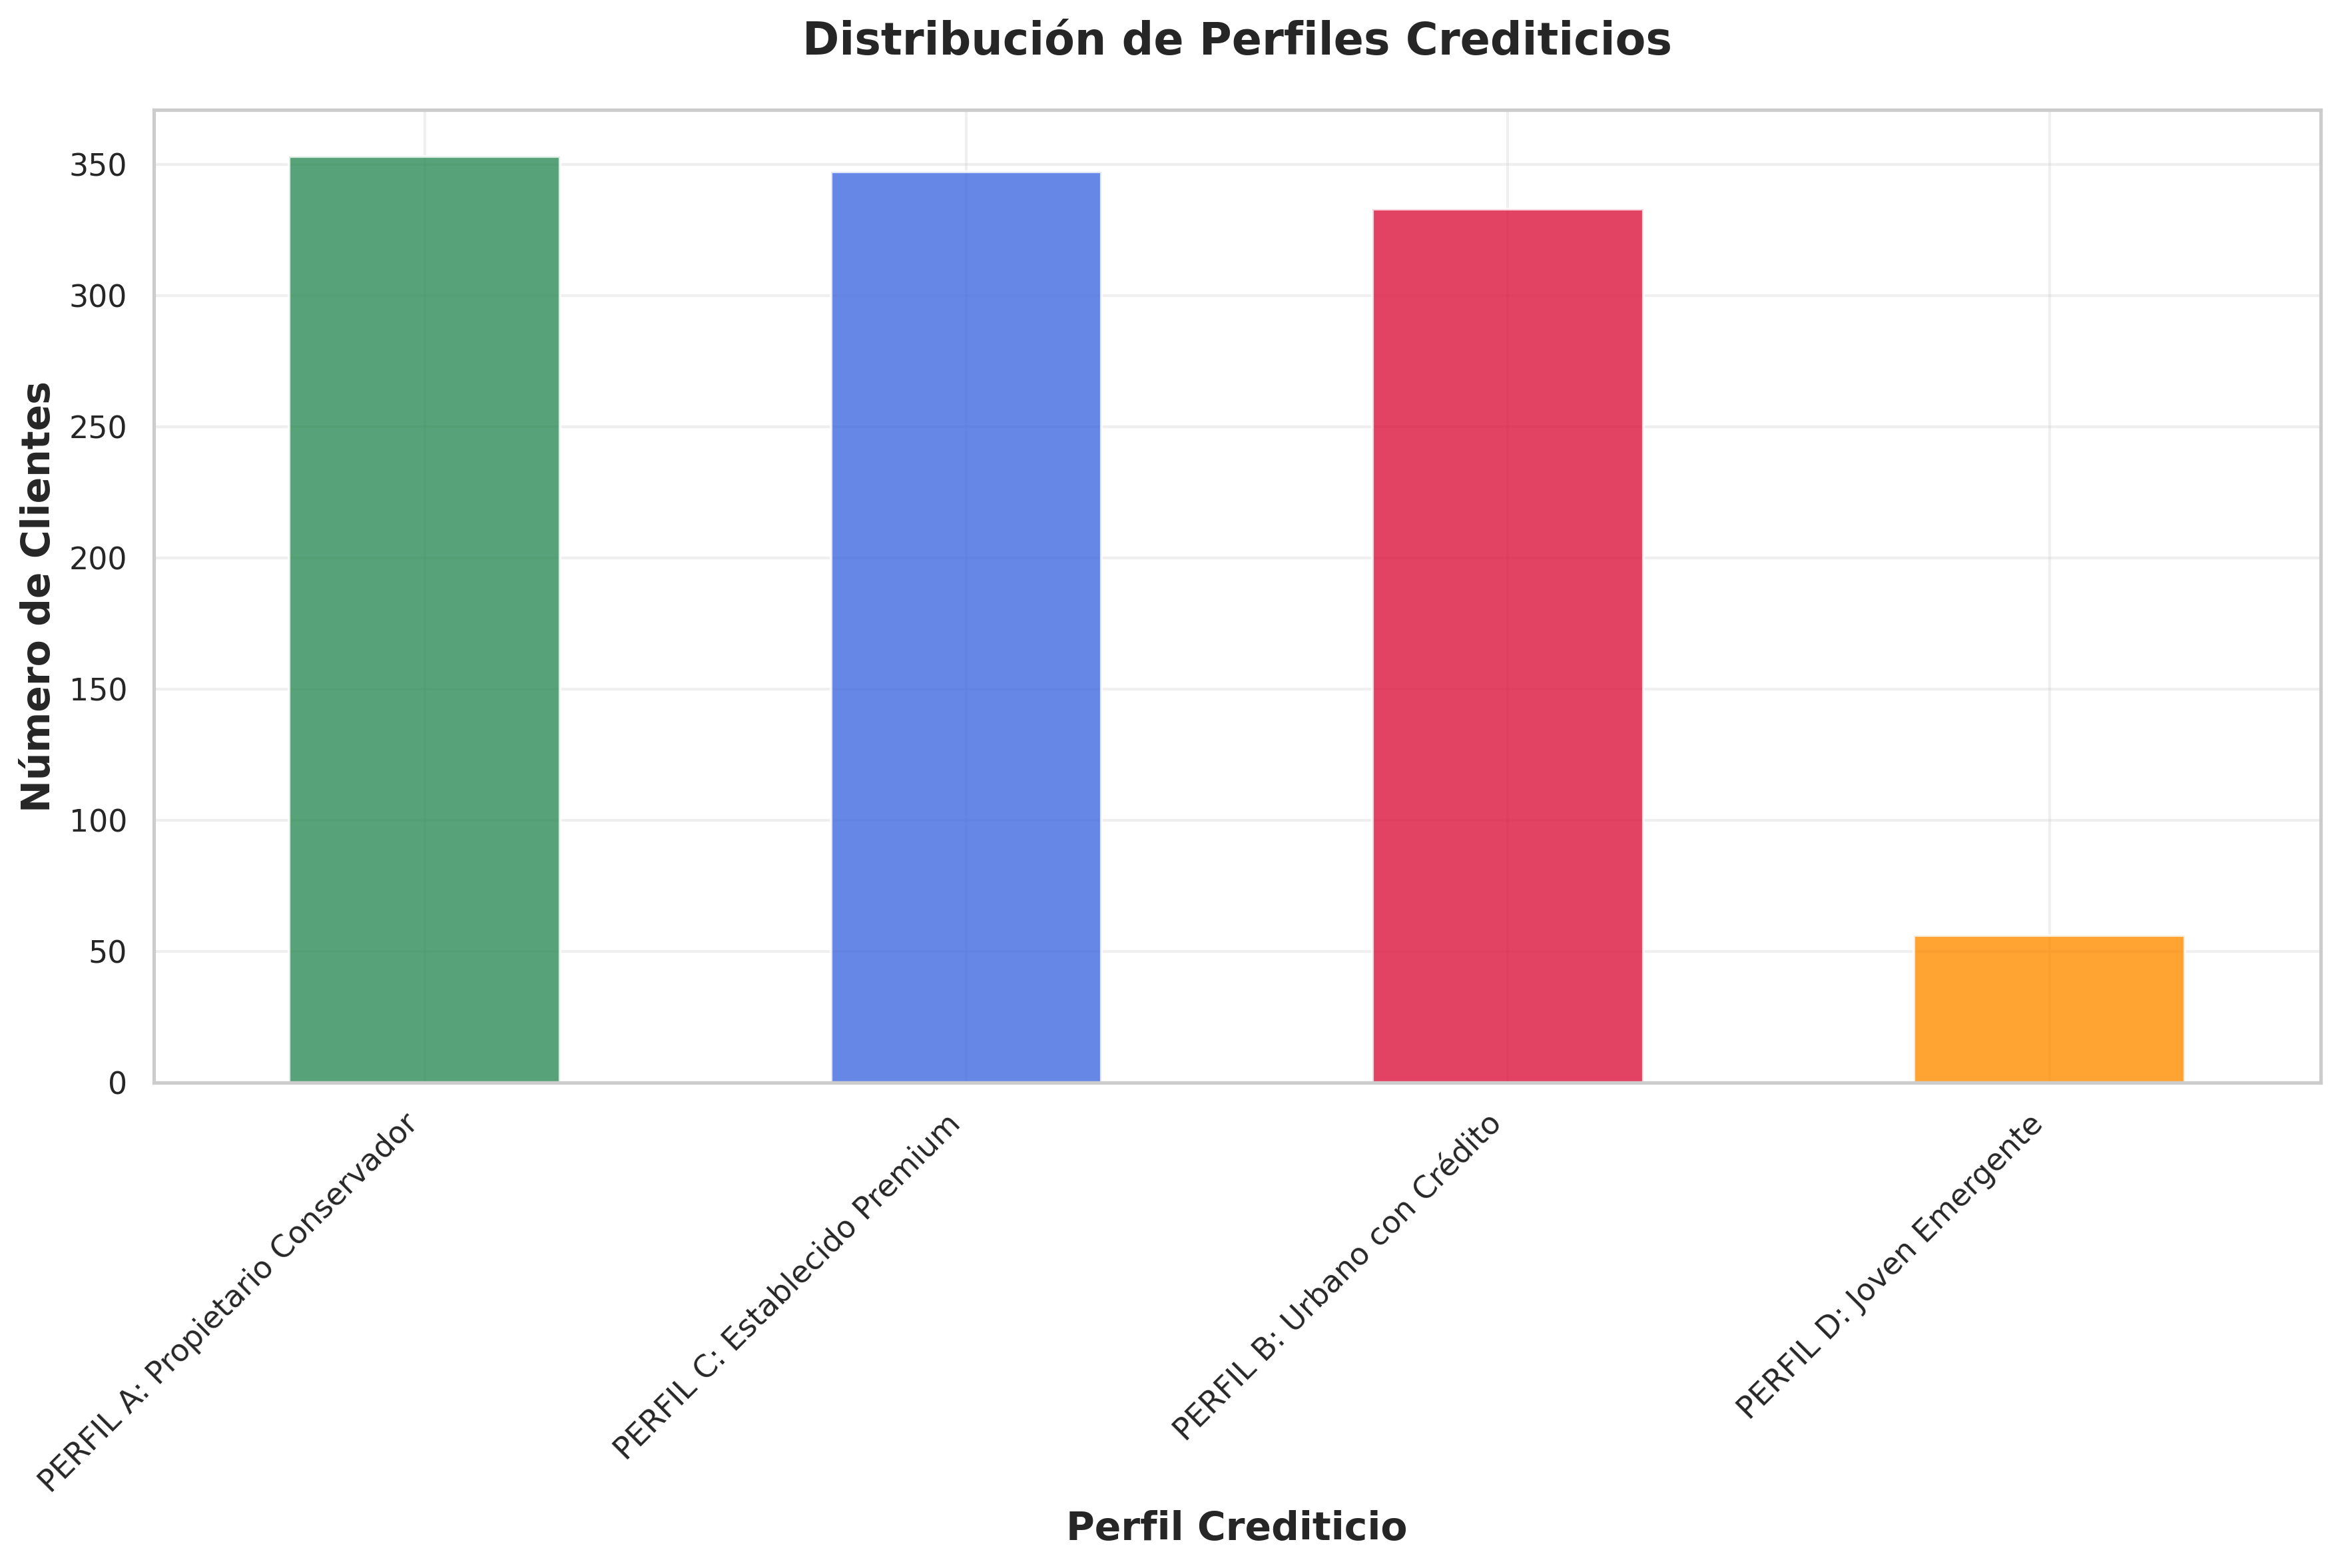
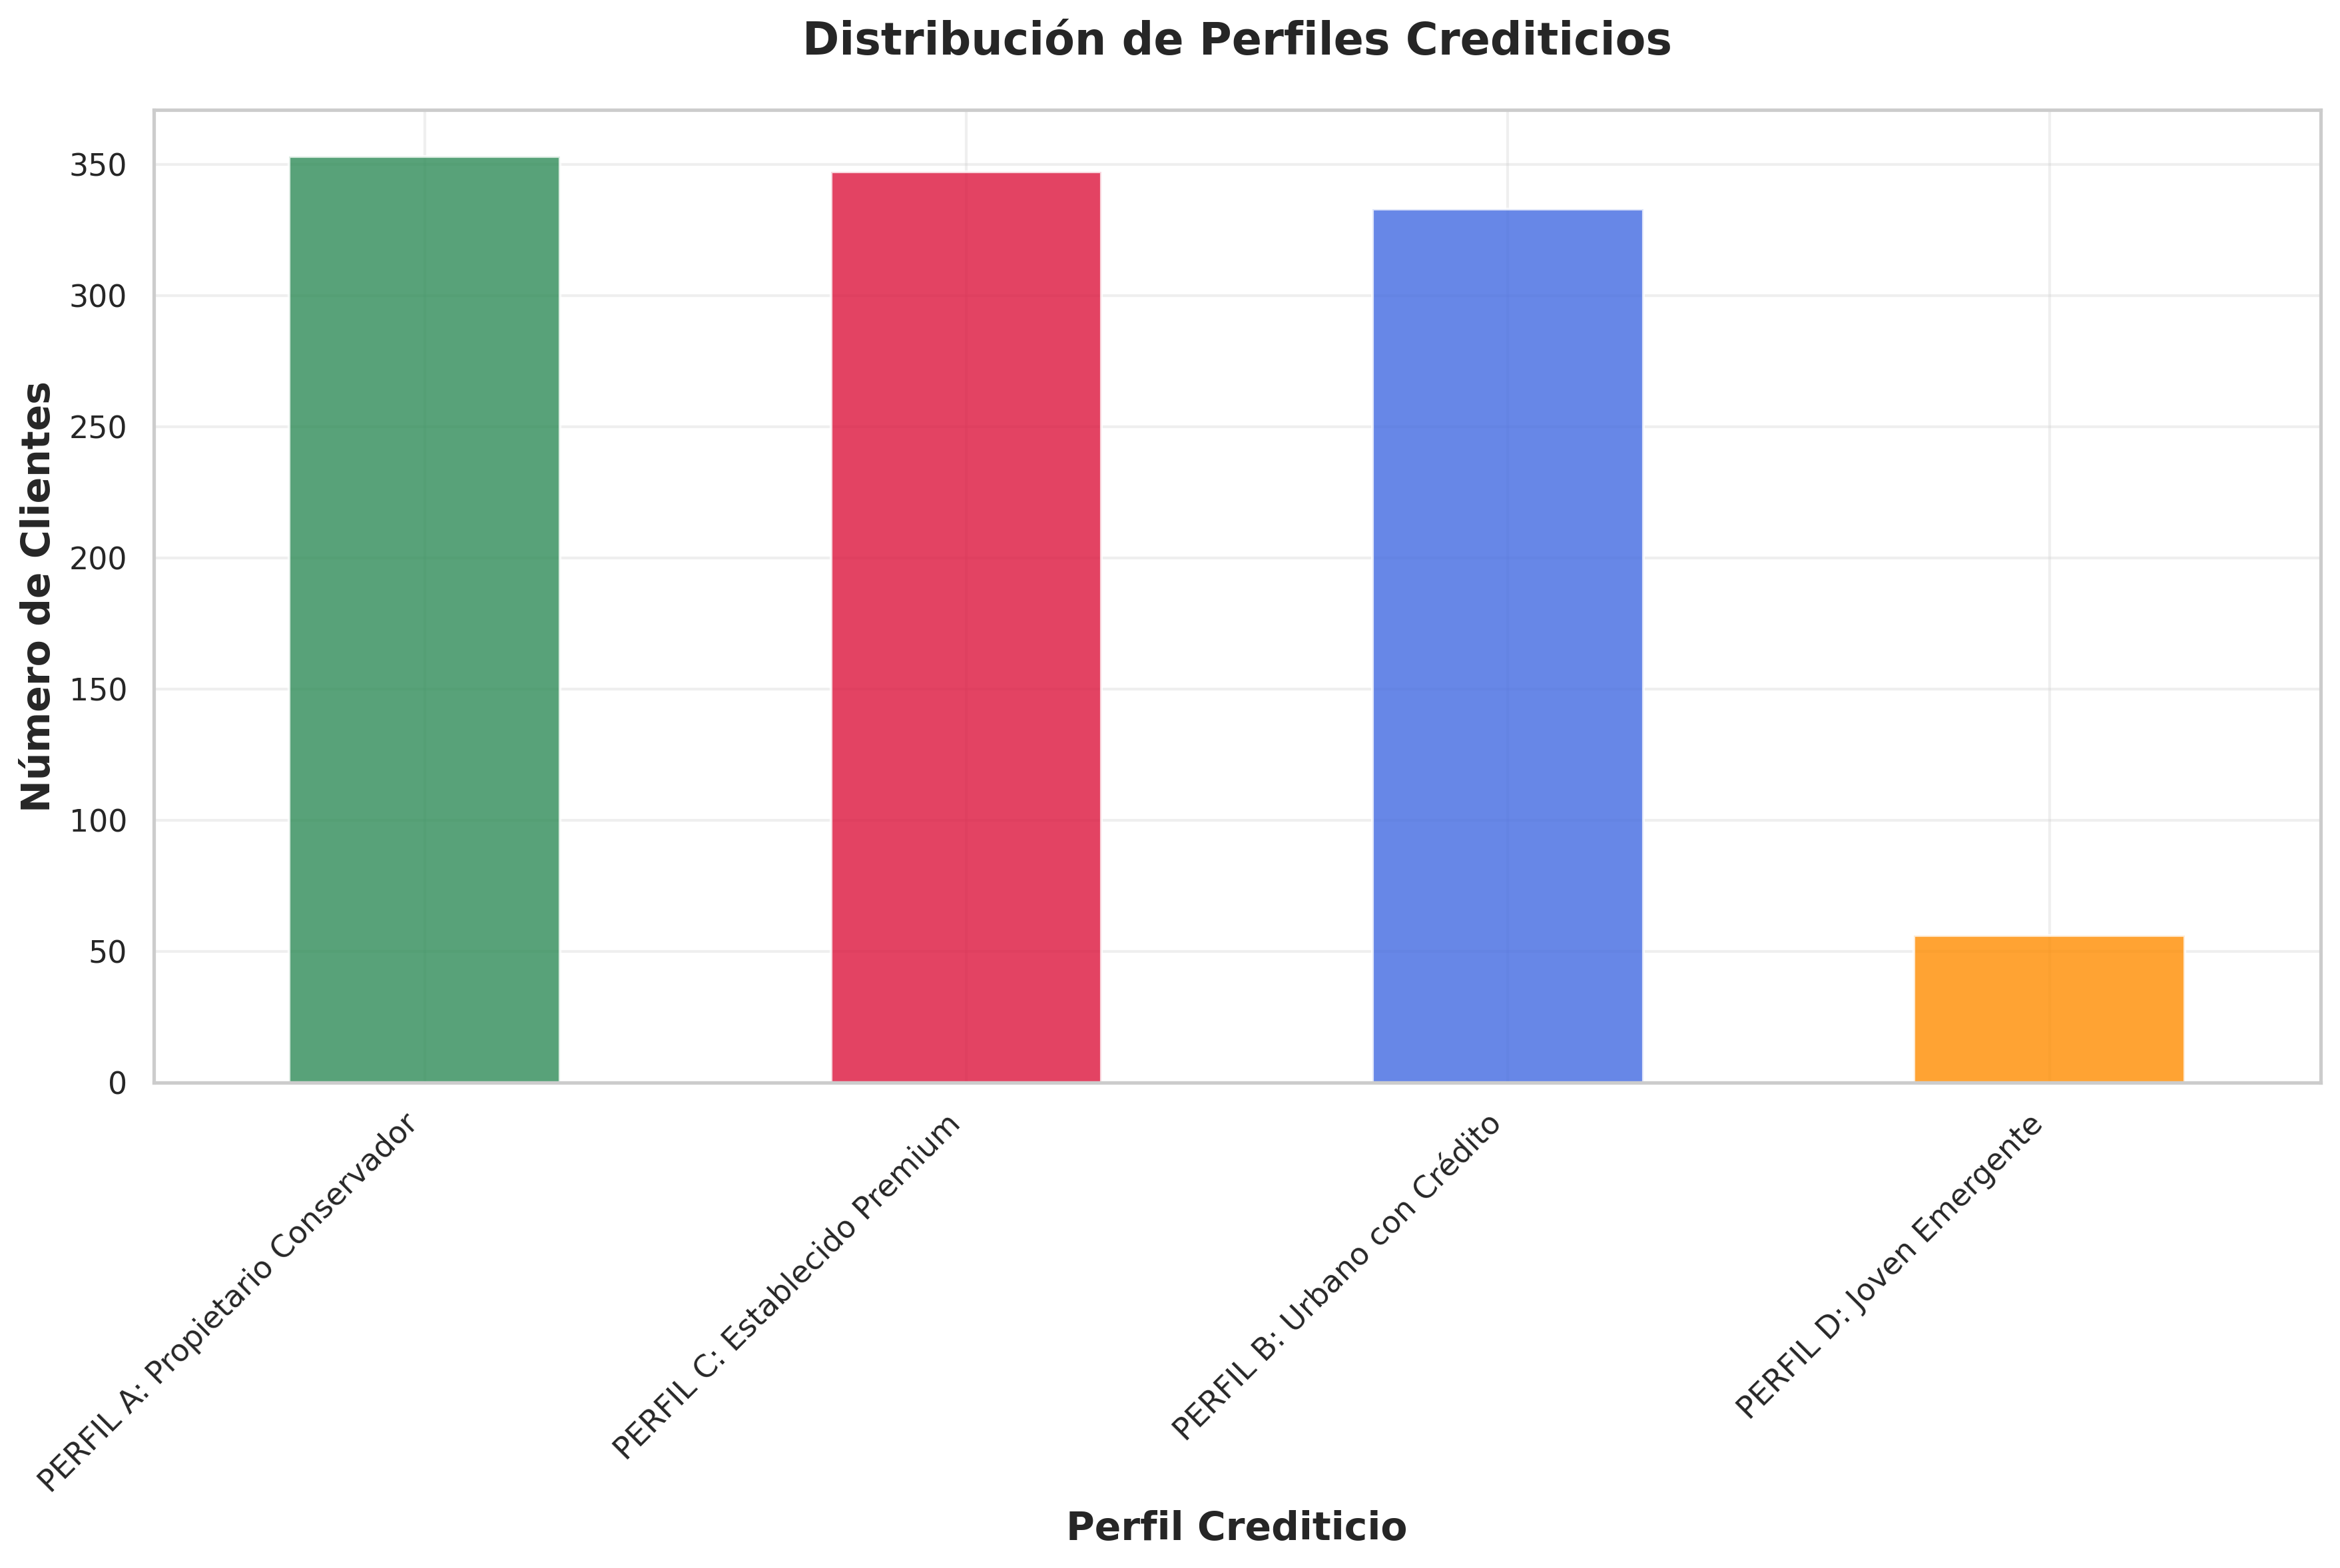
Merge pull request #263 from Engineering-Club-Cash-In/lralda
fix: incluir costo RCDP en Intereses del cotizador para microbuses

Pull request: fix: incluir costo RCDP en Intereses del cotizador para microbuses
## Summary
- Corrige el cálculo de Intereses en el cotizador para microbuses: el costo RCDP (Q561.99 para microbus_20) ahora se muestra en el campo "Intereses" en lugar de estar oculto en adminCost
- El total financiado no cambia, solo se corrige la visualización para coincidir con el Excel
- Para vehículos sin RCDP (carros normales), el comportamiento es idéntico al anterior

## Test plan
- [ ] Verificar cotización de microbus_20: Intereses debe mostrar ~Q3,603.99 (no Q3,042)
- [ ] Verificar cotización de vehículo normal: Intereses no debe cambiar
- [ ] Verificar que el total de Comisión y Gastos de Registro coincida con el Excel

🤖 Generated with [Claude Code](https://claude.com/claude-code)

Changed region(s): [[0.3412, 0.093, 0.4963, 0.713], [0.5894, 0.124, 0.7134, 0.713]]

diff --git a/apps/crm/apps/web/src/routes/crm/quoter.tsx b/apps/crm/apps/web/src/routes/crm/quoter.tsx
@@ -1010,16 +1010,16 @@ function QuoterPage() {
 		const calculatedRoyalty = Math.ceil(b22 * (royaltyPercentage / 100));
 		quoterForm.setFieldValue("royalty", calculatedRoyalty);
 
-		// Interés = ROUNDUP(B22 * 1.78%)
-		const calculatedInterest = Math.ceil(b22 * 0.0178);
+		// Interés = ROUNDUP(B22 * 1.78%) + RCDP (para microbuses)
+		const rcdpCost = Number(values.rcdpCost);
+		const calculatedInterest = Math.ceil(b22 * 0.0178) + rcdpCost;
 		quoterForm.setFieldValue("interestCost", calculatedInterest);
 
 		// Nota: extraInsuranceCost y extraMembershipCost se calculan en updateInsuranceCost()
 		// para que sean editables y no se sobrescriban en cada recálculo
 
-		// Gastos Admin = 400 + Royalty + 400 + 600 + ROUNDUP(B22*1.78%,0) + GPS + Seguro + RCDP
-		const rcdpCost = Number(values.rcdpCost);
-		const extraCost = calculatedInterest + gpsCost + insuranceCost + rcdpCost;
+		// Gastos Admin = 400 + Royalty + 400 + 600 + Intereses(incluye RCDP) + GPS + Seguro
+		const extraCost = calculatedInterest + gpsCost + insuranceCost;
 		const adminCost = 400 + calculatedRoyalty + 400 + 600 + extraCost;
 
 		// Actualizar el campo de gastos administrativos

diff --git a/apps/data-science/dashboard_ejecutivo.py b/apps/data-science/dashboard_ejecutivo.py
@@ -26,14 +26,57 @@ def generar_dashboard_ejecutivo():
     df['Cuotas pendientes actual'] = pd.to_numeric(df['Cuotas pendientes actual'], errors='coerce')
     
     # Limpiar datos para análisis
+    for col in ['ESTADO CIVIL', 'OCUPACION', 'VIVIENDA PROPIA', 'VEHICULO PROPIO', 'TARJETA DE CREDITO', 'TIPO DE COMPRAS', 'UTILIZACION DINERO']:
+        if col in df.columns:
+            df[col] = df[col].astype(str).str.strip()
+            df[col] = df[col].replace('nan', np.nan)
+
     df_limpio = df.dropna(subset=['VIVIENDA PROPIA', 'TARJETA DE CREDITO', 'SUELDO', 'PRECIO PRODUCTO', 'Cuotas pendientes actual'])
-    
+
     # Calcular métricas principales
     total_clientes = len(df_limpio)
     morosos = len(df_limpio[df_limpio['Cuotas pendientes actual'] > 1])
     tasa_morosidad = (morosos / total_clientes) * 100
     monto_promedio = df_limpio['PRECIO PRODUCTO'].mean()
     sueldo_promedio = df_limpio['SUELDO'].mean()
+
+    # Crear perfiles crediticios para métricas dinámicas
+    def crear_perfil(row):
+        v = row['VIVIENDA PROPIA']
+        t = row['TARJETA DE CREDITO']
+        if v == 'Si' and t == 'No':
+            return 'Propietario Conservador'
+        elif v == 'No' and t == 'Si':
+            return 'Urbano con Crédito'
+        elif v == 'Si' and t == 'Si':
+            return 'Establecido Premium'
+        else:
+            return 'Joven Emergente'
+
+    df_limpio = df_limpio.copy()
+    df_limpio['PERFIL'] = df_limpio.apply(crear_perfil, axis=1)
+
+    # Calcular métricas por perfil
+    perfiles_dist = df_limpio['PERFIL'].value_counts()
+    perfiles_pct = df_limpio['PERFIL'].value_counts(normalize=True) * 100
+
+    perfiles_morosos = df_limpio[df_limpio['Cuotas pendientes actual'] > 1]['PERFIL'].value_counts()
+    perfiles_totales = df_limpio['PERFIL'].value_counts()
+    tasa_morosidad_perfil = (perfiles_morosos / perfiles_totales * 100).fillna(0)
+
+    # Identificar perfil de mayor y menor riesgo
+    perfil_mayor_riesgo = tasa_morosidad_perfil.idxmax()
+    perfil_menor_riesgo = tasa_morosidad_perfil.idxmin()
+    perfil_mas_grande = perfiles_dist.idxmax()
+
+    # Correlación vivienda-tarjeta
+    df_limpio['VIV_NUM'] = df_limpio['VIVIENDA PROPIA'].map({'Si': 1, 'No': 0})
+    df_limpio['TAR_NUM'] = df_limpio['TARJETA DE CREDITO'].map({'Si': 1, 'No': 0})
+    corr_viv_tar = df_limpio[['VIV_NUM', 'TAR_NUM']].corr().iloc[0, 1]
+
+    # Ahorro potencial
+    monto_promedio_moroso = df_limpio[df_limpio['Cuotas pendientes actual'] > 1]['PRECIO PRODUCTO'].mean()
+    ahorro_potencial = monto_promedio_moroso * morosos * 0.5
     
     # Función para convertir imagen a base64
     def imagen_a_base64(ruta_imagen):
@@ -308,19 +351,19 @@ def generar_dashboard_ejecutivo():
                 <div class="insights-grid">
                     <div class="insight-card">
                         <h3>🏠 Correlación Vivienda-Crédito</h3>
-                        <p>Fuerte correlación negativa (-0.48) entre vivienda propia y tarjeta de crédito. Los propietarios tienden a ser más conservadores financieramente.</p>
+                        <p>Correlación de {corr_viv_tar:.2f} entre vivienda propia y tarjeta de crédito. Los propietarios tienden a ser más conservadores financieramente.</p>
                     </div>
                     <div class="insight-card">
                         <h3>💳 Perfiles Diferenciados</h3>
-                        <p>4 perfiles crediticios identificados: Urbano con Crédito (34.2%), Establecido Premium (31.6%), Propietario Conservador (30.8%), y Joven Emergente (3.4%).</p>
+                        <p>4 perfiles crediticios identificados: {', '.join(f'{p} ({perfiles_pct[p]:.1f}%)' for p in perfiles_pct.index)}.</p>
                     </div>
                     <div class="insight-card">
                         <h3>⚠️ Riesgo Concentrado</h3>
-                        <p>El perfil "Joven Emergente" representa solo 3.4% de clientes pero tiene 25% de morosidad vs 11% promedio general.</p>
+                        <p>El perfil "{perfil_mayor_riesgo}" tiene {tasa_morosidad_perfil[perfil_mayor_riesgo]:.1f}% de morosidad vs {tasa_morosidad:.1f}% promedio general. Representa {perfiles_pct[perfil_mayor_riesgo]:.1f}% de clientes.</p>
                     </div>
                     <div class="insight-card">
                         <h3>💰 Capacidad Limitada</h3>
-                        <p>Todos los perfiles muestran capacidad de pago de 0.3x (productos 3x mayores que sueldo), indicando necesidad de financiamiento a largo plazo.</p>
+                        <p>Los productos promedian Q{monto_promedio:,.0f} vs sueldo promedio de Q{sueldo_promedio:,.0f} (ratio {sueldo_promedio/monto_promedio:.1f}x), indicando necesidad de financiamiento a largo plazo.</p>
                     </div>
                 </div>
             </section>
@@ -374,19 +417,19 @@ def generar_dashboard_ejecutivo():
                 <div class="rec-grid">
                     <div class="rec-card">
                         <h3>🎯 Enfoque Prioritario</h3>
-                        <p><strong>Perfil Urbano con Crédito:</strong> Concentrar esfuerzos en este segmento (34.2% de clientes) con baja morosidad (10.9%) y buena capacidad de pago.</p>
+                        <p><strong>Perfil {perfil_menor_riesgo}:</strong> Concentrar esfuerzos en este segmento ({perfiles_pct[perfil_menor_riesgo]:.1f}% de clientes) con la menor morosidad ({tasa_morosidad_perfil[perfil_menor_riesgo]:.1f}%).</p>
                     </div>
                     <div class="rec-card">
                         <h3>⚠️ Gestión de Riesgo</h3>
-                        <p><strong>Perfil Joven Emergente:</strong> Implementar scoring más estricto y monitoreo especial para este segmento de alto riesgo (25% morosidad).</p>
+                        <p><strong>Perfil {perfil_mayor_riesgo}:</strong> Implementar scoring más estricto y monitoreo especial para este segmento de mayor riesgo ({tasa_morosidad_perfil[perfil_mayor_riesgo]:.1f}% morosidad).</p>
                     </div>
                     <div class="rec-card">
                         <h3>🚀 Oportunidades de Crecimiento</h3>
-                        <p><strong>Up-selling:</strong> Los perfiles Premium y Conservador muestran estabilidad. Ofrecer productos complementarios y aumentar límites de crédito.</p>
+                        <p><strong>Up-selling:</strong> Los perfiles con menor morosidad muestran estabilidad. Ofrecer productos complementarios y aumentar límites de crédito.</p>
                     </div>
                     <div class="rec-card">
                         <h3>🔄 Estrategia Anti-Morosidad</h3>
-                        <p><strong>Prevención:</strong> Contacto proactivo con clientes en cuota 1, reestructuración para sueldos bajos, y programas de lealtad.</p>
+                        <p><strong>Prevención:</strong> Contacto proactivo con clientes en cuota 1, reestructuración para sueldos bajos, y programas de lealtad. {morosos:,} clientes actualmente morosos.</p>
                     </div>
                     <div class="rec-card">
                         <h3>📊 Scoring Crediticio</h3>
@@ -394,7 +437,7 @@ def generar_dashboard_ejecutivo():
                     </div>
                     <div class="rec-card">
                         <h3>💰 Impacto Financiero</h3>
-                        <p><strong>ROI Estimado:</strong> Reducir morosidad en 50% podría generar ahorros de Q{(df_limpio[df_limpio['Cuotas pendientes actual'] > 1]['PRECIO PRODUCTO'].mean() * morosos * 0.5):,.0f}</p>
+                        <p><strong>ROI Estimado:</strong> Reducir morosidad en 50% podría generar ahorros de Q{ahorro_potencial:,.0f}. Monto total en riesgo: Q{monto_promedio_moroso * morosos:,.0f}.</p>
                     </div>
                 </div>
             </section>
@@ -405,15 +448,15 @@ def generar_dashboard_ejecutivo():
                 <div class="insights-grid">
                     <div class="insight-card">
                         <h3>✅ Fortalezas Identificadas</h3>
-                        <p>Base de clientes diversificada con 3 perfiles principales equilibrados. Tasa de morosidad general controlada ({tasa_morosidad:.1f}%). Correlaciones claras para scoring crediticio.</p>
+                        <p>Base de {total_clientes:,} clientes con 3 perfiles principales equilibrados (~30% cada uno). Tasa de morosidad general: {tasa_morosidad:.1f}%. Correlaciones claras para scoring crediticio.</p>
                     </div>
                     <div class="insight-card">
                         <h3>⚡ Acciones Inmediatas</h3>
-                        <p>1) Implementar scoring diferenciado por perfil. 2) Monitoreo especial del segmento Joven Emergente. 3) Estrategias de up-selling para perfiles estables.</p>
+                        <p>1) Implementar scoring diferenciado por perfil. 2) Monitoreo especial del segmento {perfil_mayor_riesgo}. 3) Estrategias de up-selling para perfiles estables.</p>
                     </div>
                     <div class="insight-card">
-                        <h3>🎯 Objetivos 2024</h3>
-                        <p>Reducir morosidad a <8%. Incrementar penetración en Perfil Urbano. Desarrollar productos específicos por perfil crediticio.</p>
+                        <h3>🎯 Objetivos 2026</h3>
+                        <p>Reducir morosidad de {tasa_morosidad:.1f}% a &lt;10%. Incrementar penetración en Perfil {perfil_mas_grande}. Desarrollar productos específicos por perfil crediticio.</p>
                     </div>
                     <div class="insight-card">
                         <h3>📊 Próximos Análisis</h3>

diff --git a/apps/data-science/clientes.py b/apps/data-science/clientes.py
@@ -609,10 +609,18 @@ for perfil in perfiles:
     }
 
 # Crear visualizaciones
+# Mapa de colores fijo por perfil
+COLOR_PERFIL = {
+    'PERFIL A: Propietario Conservador': '#2E8B57',
+    'PERFIL B: Urbano con Crédito': '#4169E1',
+    'PERFIL C: Establecido Premium': '#DC143C',
+    'PERFIL D: Joven Emergente': '#FF8C00',
+}
+
 # 1. Distribución de perfiles
 plt.figure(figsize=(12,8))
-colores = ['#2E8B57', '#4169E1', '#DC143C', '#FF8C00']
-distribucion_perfiles.plot(kind='bar', color=colores, alpha=0.8)
+colores_dist = [COLOR_PERFIL[p] for p in distribucion_perfiles.index]
+distribucion_perfiles.plot(kind='bar', color=colores_dist, alpha=0.8)
 plt.title('Distribución de Perfiles Crediticios', fontsize=16, fontweight='bold', pad=20)
 plt.xlabel('Perfil Crediticio', fontsize=14, fontweight='bold')
 plt.ylabel('Número de Clientes', fontsize=14, fontweight='bold')
@@ -631,7 +639,8 @@ sueldos = [resultados_perfiles[p]['sueldo'] for p in perfiles_ordenados]
 fig, (ax1, ax2) = plt.subplots(1, 2, figsize=(16,7))
 
 # Riesgo crediticio
-ax1.bar(range(len(perfiles_ordenados)), riesgos, color=colores, alpha=0.8)
+colores_ord = [COLOR_PERFIL[p] for p in perfiles_ordenados]
+ax1.bar(range(len(perfiles_ordenados)), riesgos, color=colores_ord, alpha=0.8)
 ax1.set_title('Riesgo Crediticio por Perfil', fontsize=14, fontweight='bold')
 ax1.set_xlabel('Perfil', fontsize=12, fontweight='bold')
 ax1.set_ylabel('% Clientes con Riesgo Alto', fontsize=12, fontweight='bold')
@@ -640,7 +649,7 @@ ax1.set_xticklabels([p.split(':')[0] for p in perfiles_ordenados], rotation=45, 
 ax1.grid(True, alpha=0.3)
 
 # Sueldo promedio
-ax2.bar(range(len(perfiles_ordenados)), sueldos, color=colores, alpha=0.8)
+ax2.bar(range(len(perfiles_ordenados)), sueldos, color=colores_ord, alpha=0.8)
 ax2.set_title('Sueldo Promedio por Perfil', fontsize=14, fontweight='bold')
 ax2.set_xlabel('Perfil', fontsize=12, fontweight='bold')
 ax2.set_ylabel('Sueldo Promedio (Q)', fontsize=12, fontweight='bold')
@@ -658,8 +667,8 @@ plt.figure(figsize=(12,8))
 capacidades = [resultados_perfiles[p]['capacidad_pago'] for p in perfiles_ordenados]
 tamaños = [resultados_perfiles[p]['tamaño'] for p in perfiles_ordenados]
 
-scatter = plt.scatter(capacidades, riesgos, s=[t*5 for t in tamaños], 
-                     c=range(len(perfiles_ordenados)), cmap='viridis', alpha=0.7, edgecolors='black')
+scatter = plt.scatter(capacidades, riesgos, s=[t*5 for t in tamaños],
+                     c=colores_ord, alpha=0.7, edgecolors='black')
 
 for i, perfil in enumerate(perfiles_ordenados):
     plt.annotate(perfil.split(':')[0], (capacidades[i], riesgos[i]), 
@@ -857,8 +866,8 @@ perfiles_morosos = df_morosos['PERFIL_CREDITICIO'].value_counts()
 perfiles_totales = df_seg['PERFIL_CREDITICIO'].value_counts()
 tasa_morosidad_perfil = (perfiles_morosos / perfiles_totales * 100).fillna(0)
 
-colores_riesgo = ['#ff4444', '#ff8844', '#ffdd44', '#44dd44']
-tasa_morosidad_perfil.plot(kind='bar', color=colores_riesgo, alpha=0.8)
+colores_morosidad = [COLOR_PERFIL[p] for p in tasa_morosidad_perfil.index]
+tasa_morosidad_perfil.plot(kind='bar', color=colores_morosidad, alpha=0.8)
 plt.title('Tasa de Morosidad por Perfil Crediticio', fontsize=16, fontweight='bold', pad=20)
 plt.xlabel('Perfil Crediticio', fontsize=14, fontweight='bold')
 plt.ylabel('Tasa de Morosidad (%)', fontsize=14, fontweight='bold')